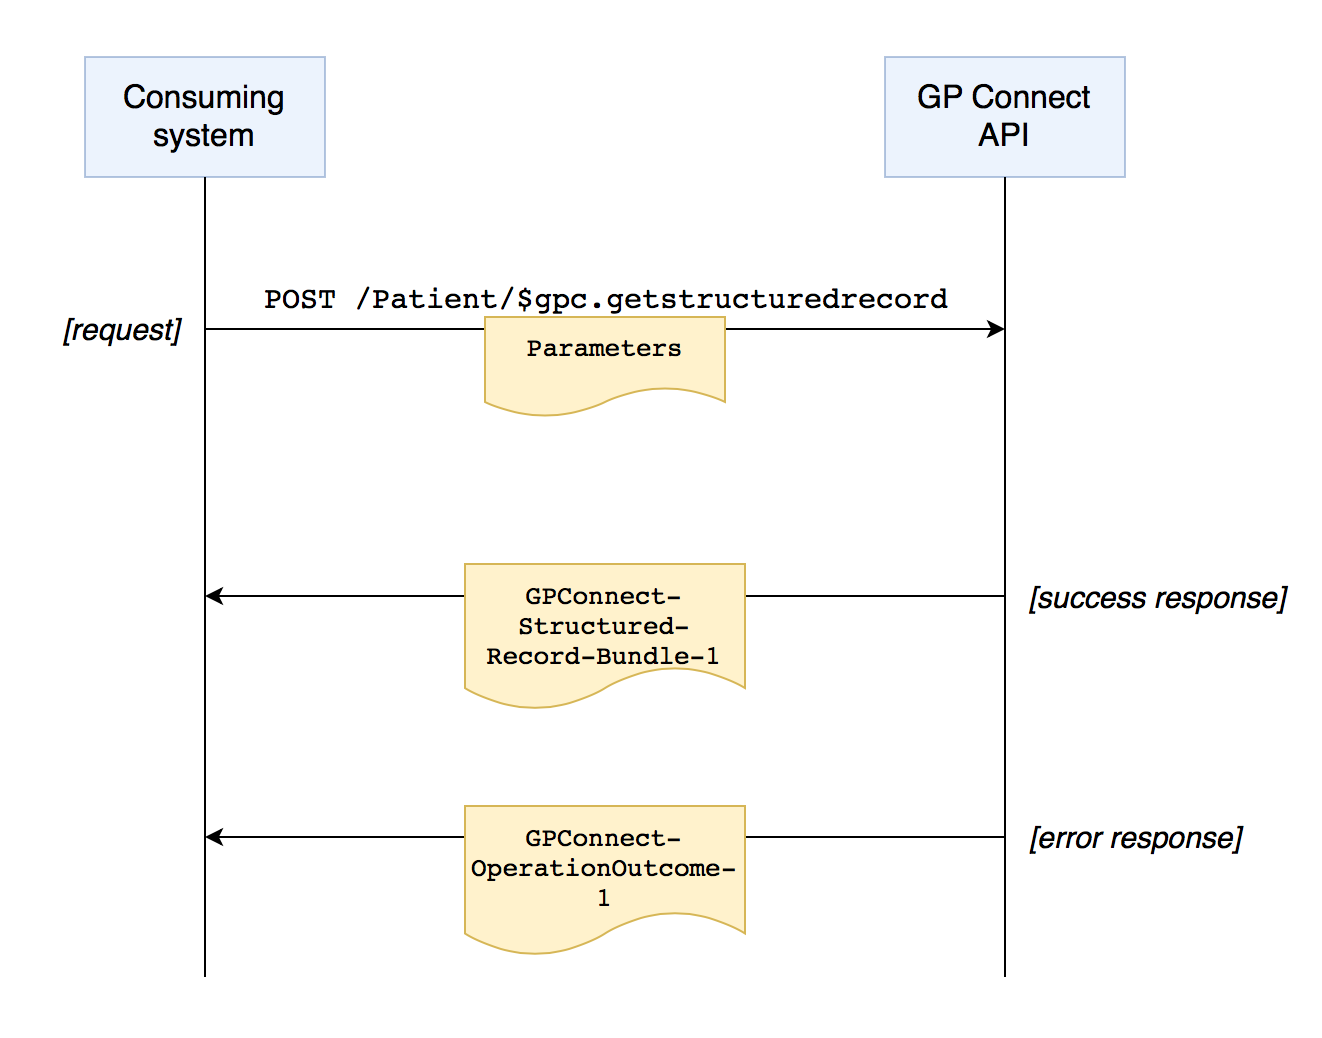
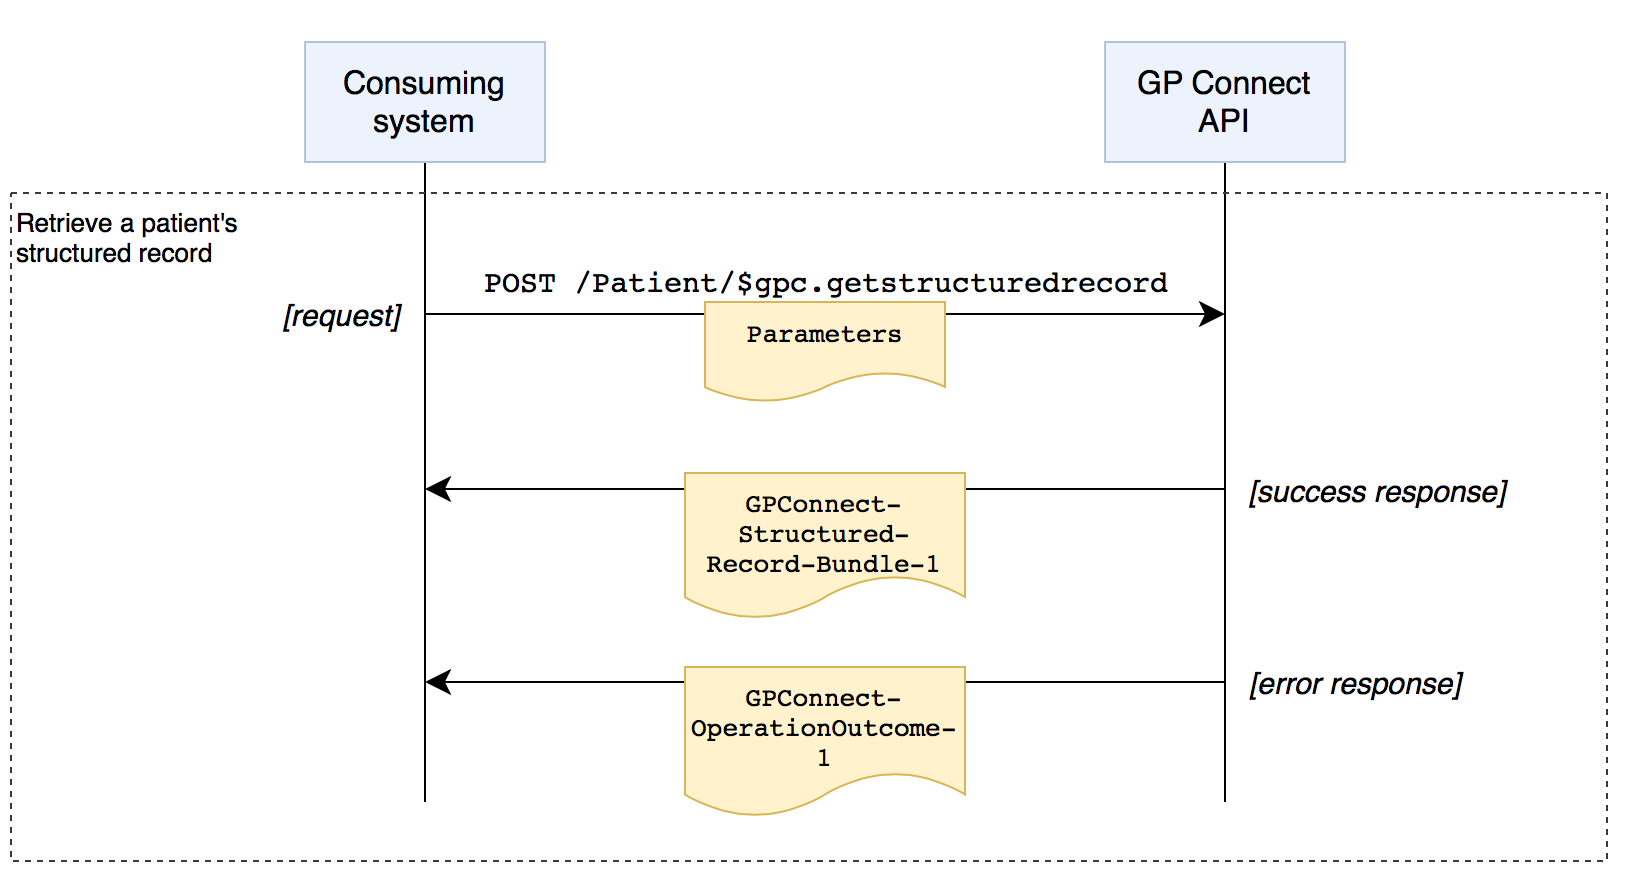
Add structured interaction diagram

diff --git a/pages/accessrecord_structured/accessrecord_structured_development_retrieve_patient_record.md b/pages/accessrecord_structured/accessrecord_structured_development_retrieve_patient_record.md
@@ -27,6 +27,10 @@ The consumer system:
 
 ## API usage ##
 
+### Interaction diagram ###
+
+<img style="height: 400px;" alt="Get structured record interaction diagram" src="images/access_structured/get-structured-record-interaction-diagram.png"/>
+
 ### Request operation ###
 
 #### FHIR&reg; relative request ####
